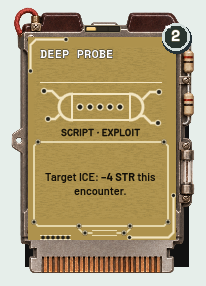
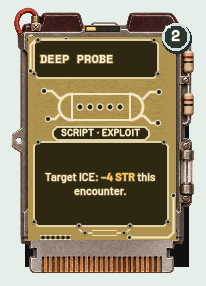
CARDS-002: glow study on dark solder-mask panels (review branch only)
Designer feedback: dark text on bare mustard lacks contrast. Title, type
stamp and rules now sit on #2E2712 mask panels; ivory #FFF3D0 text with a
soft halo (13.4:1), amber #FFC861 Barlow Bold numbers (9.7:1). Fixture
asserts mask panels, ink contrast and pad-free type plate. Preview 0
failures at 3x and 1x; rules 361/0, ADP 17/0, SIGNAL/CARBON 671/0.

Never merged into main or release.

Claude-Session: https://claude.ai/code/session_019hKEHwHgBfGqbFMUM3xZXY

Changed region(s): [[0.1456, 0.4196, 0.8155, 0.8112], [0.1456, 0.1119, 0.7864, 0.3077]]

diff --git a/docs/visual/fixtures/cards-002/README.md b/docs/visual/fixtures/cards-002/README.md
@@ -4,15 +4,19 @@
 
 **Status:** Design review, 2026-11-19. The fifth design is an alternate Rustler cartridge treatment. The review source is isolated from the playable build.
 
-![Review fixes: three rarities, two cached states and the longest-rules stress card](iterations/PANOPTICON_Mustard_PCB_05_Review_Fixes.jpg)
+![Glow study: text on dark solder-mask panels over the mustard board](iterations/PANOPTICON_Mustard_PCB_05_Glow_Mask.jpg)
 
-## Current review version
+## Current review version — glow study (2026-11-19, PROPOSED)
 
-- The whole board uses mustard laminate `#AE924D`, sampled from the designer's TV Typewriter PCB reference. The white title (with its `#24231C` outline) and BW numeral sit above the dark `#100D07` card text.
-- Routed Gothic prints the type and tags as one centred stamp line (`SCRIPT · EXPLOIT`) at 9 px, falling to 8 px if needed. A 1 px outline in the same ink gives the single-stroke face weight at hand size.
-- Barlow SemiBold prints the rules, with numbers and their units (`−4 STR`, `2`) in Barlow Bold. The rules sit inside a fixed 134 × 84 PCB trace frame, centred horizontally and vertically, at 11 px down to a 9 px floor.
-- Thin PCB traces outline the entire rules box. Plated through-holes and short branches connect it visually to an empty axial resistor footprint.
-- A recessed light in the top exterior of the cartridge shows rarity. It has three cells, filled left to right: one for Common, two for Uncommon, three for Rare. The card face omits the written rarity; the hover tooltip still names it.
+The designer found that dark text on bare mustard lacked contrast and asked whether the text should glow off the board. In this study no text sits directly on the mustard.
+
+- The board stays mustard laminate `#AE924D`, sampled from the designer's TV Typewriter PCB reference, with its circuit stencil, traces and contacts.
+- **Dark solder-mask panels** in `#2E2712` sit behind the title, the type stamp and the rules. The mask is 4.96:1 against the mustard, so each panel reads as a distinct printed area.
+- **Glowing ivory text** `#FFF3D0` (13.4:1 on the mask) has a soft zero-offset halo, `rgba(255, 219, 140, 0.32)`. The halo is decoration only; contrast is measured on the solid ink.
+- **Title:** Chrome Deco bold, centred vertically in a 124 × 38 chamfered mask panel with plated corner holes. The old dark outline and separator line are gone.
+- **Type stamp:** Routed Gothic, one centred line (`SCRIPT · EXPLOIT`) at 9 px, falling to 8 px if needed, on a small pill-shaped mask plate. The plate has no plated holes, so nothing touches the letters.
+- **Rules:** Barlow SemiBold, centred in a fixed 134 × 84 mask panel with traces, plated holes and the empty resistor footprint, at 11 px down to a 9 px floor. Numbers and their units are **Barlow Bold in phosphor amber** `#FFC861` (9.7:1 on the mask).
+- **Rarity:** a recessed light in the top exterior of the cartridge with three cells, filled left to right: one for Common, two for Uncommon, three for Rare. The card face omits the written rarity; the hover tooltip still names it.
 - **Cached** is never printed on the card. A padlock indicator is mounted on the cartridge's left ear, outside the board. A card held until played has a solid rim. A temporary cache breaks the rim into segments, one lit per remaining turn. The hover tooltip reads `CACHED` or `CACHED · TEMP (n turns)`.
 
 | Rarity | Light | Example |
@@ -37,7 +41,7 @@ The captures are at 3× hand size. [`captures/hand-size/`](captures/hand-size/) 
 | Long rules would shrink to about 8 px | Stencil art shortened to 40 px and type plus tags merged to one line, so the frame grows from 67 to 84 px. Floor raised to 9 px; every card's rules at AMP 0–3 (444 texts) fit. |
 | Rarity shown by colour alone (amber and green differ by only 1.08:1 in brightness) | Lit-cell count, 1/2/3, alongside the colour. |
 | Numbers lost their emphasis | Barlow Bold for numbers in the dark ink (the old `#F2CD87` highlight would fail contrast on mustard). |
-| White title is 2.99:1 on mustard alone | Outline kept and now asserted by the fixture. |
+| White title is 2.99:1 on mustard alone | Superseded by the glow study: the title sits on its own dark mask panel. |
 | Thin left-aligned type lines crowding the frame | One centred stamp line with a weighting outline, at least 3 px clear of the frame. |
 
 ## Design sequence
@@ -53,6 +57,7 @@ The captures are at 3× hand size. [`captures/hand-size/`](captures/hand-size/) 
 9. [Board traces, plated holes and resistor footprint](iterations/PANOPTICON_Mustard_PCB_05_Board_Trace_Frame.jpg)
 10. [Top-edge rarity lights](iterations/PANOPTICON_Mustard_PCB_05_Rarity_Lights.jpg)
 11. [Review fixes: cache padlock, segmented lights, taller frame, bold numbers](iterations/PANOPTICON_Mustard_PCB_05_Review_Fixes.jpg)
+12. [Glow study: ivory text on dark solder-mask panels, amber numbers](iterations/PANOPTICON_Mustard_PCB_05_Glow_Mask.jpg)
 
 ## Reproduce the latest preview
 
@@ -79,7 +84,7 @@ The capture fixture needs a display. It checks:
 - each lamp's tier and lit-cell count against the card's actual rarity;
 - the fixed frame, the 9 px floor, centring and fit of the rules, and bold numbers;
 - that the type stamp is one line and clear of the frame;
-- that the title keeps its outline;
+- that the title, type stamp and rules each sit on the dark mask, in glowing ivory, with every ink at least 4.5:1 on the mask and no plated holes on the type plate;
 - that `CACHED` never appears on the card face, and that the padlock appears only on cached cards, stays off the board, shows the right turn count and is named in the tooltip;
 - that every card's rules text at AMP 0–3 fits the frame at 9 px, and every Rustler type stamp fits one line at 8 px.
 

diff --git a/docs/REDLINE_DEVELOPMENT_LOG.md b/docs/REDLINE_DEVELOPMENT_LOG.md
@@ -4,16 +4,6 @@
 
 **LOG-001 (2026-11-16):** entries from 2026-11-08 to 2026-11-14 are in `REDLINE_DEVELOPMENT_LOG_ARCHIVE.md`, unchanged. Keep this file under about 60 KB (HANDOFF, "How we work" 6).
 
-## 2026-11-17 — CARDS-001: selected board colours and Whirlwind Bloatware (Codex)
-
-**Commit tag:** `cards-001-board-palette`.
-
-**Designer choices:** A/C/D board colours selected for card faces; Whirlwind #3 selected as Bloatware prototype. The pale Bloatware plate was rejected (“No card should have a white background for the text”). Brown Bloatware was then rejected for matching SCRIPT; oxide-red D received “Perfect”. That confirms the D material choice; no approval of the entire PR/merge is inferred.
-
-**Changed:** tobacco-brown SCRIPT, earthy olive PROGRAM, muted blue-green PROTOCOL; direct light printing on real board-style textures. BLOATWARE now has the Whirlwind-inspired protective U-handle, paired tubes, open cage/stacked boards and oxide-red phenolic face. Names, costs and rules are live controls. TRACER/SPAM remain BLOATWARE with unchanged unplayability/clear/TRACE rules; both now use the same component-aware bounds as other cartridges. Cached Bloatware retains full rules and CACHED marker; optional corporate flavour footer yields space when cached. No white card text panels remain. A–D review labels denote the four types; source-reference letters A/C/D remain palette provenance.
-
-**Validation:** Godot 4.3 import, 357 rules checks and 170 Friendly Lie UI checks pass. Extended cartridge fixture passes 625 checks and covers all authored/compiled texts, both Bloatware examples including cached text, component bounds and a mixed-type hand. Selected older log entry appended unchanged to the archive under LOG-001. Asset sources/guide/status/HANDOFF and PNGs are updated. No card definitions, rarity weights, costs or gameplay values changed. PR #12 remains open for integrated review before merge.
-
 ## 2026-11-17 — CARDS-001: instrument amber accents (Codex)
 
 **Commit tag:** `cards-001-amber`. Replaced neon yellow-green with warm instrument amber (`#D6B675`) for the shared highlight and printed numeric highlights. The brass/gauge reference fits the selected brown, olive, teal and oxide-red boards. BW badges, selection accents and shared HUD controls inherit the same colour. No rules or costs changed.
@@ -421,3 +411,15 @@ Saved ten review sheets, three final Godot captures and the reproducible prototy
 **Interpretations to confirm:** padlock glyph and left-ear position; broken-rim turn segments for temporary cache; 1/2/3 lamp cells; bold numbers in place of the amber highlight; 84 px frame with a 40 px stencil; single-line type stamp with a 1 px weighting outline; Barlow Bold added under the same OFL.
 
 LOG-001 moved the oldest dated entry to the archive unchanged: 2026-11-17 — CARDS-001: integrated light faces and printed titles (Codex).
+
+## 2026-11-19 — CARDS-002 glow study on dark solder-mask panels (Claude)
+
+**Designer feedback:** "The text doesn't glow off the PCB boards… there's just not enough contrast between the text itself and the PCB boards." The designer asked for the next study on the review branch only.
+
+**Changed (preview patch, `review/cards-002` only):** added dark mask panels in `#2E2712` behind the title (124×38), the type stamp (a pill-shaped plate with no plated holes) and the rules (134×84). Text prints in ivory `#FFF3D0` with a soft halo; numbers print in Barlow Bold amber `#FFC861`. Removed the title's dark outline and the separator line. The fixture now asserts mask panels, glowing ivory ink, at least 4.5:1 for every ink on the mask, and no plated holes on the type plate.
+
+**Validation:** Godot 4.3 at baseline `0aa6091` with the patch: preview fixture 0 failures at 3× and 1×, with 444 rules texts fitting at 9 px or larger; rules 361/0, ADP 17/0, SIGNAL/CARBON 671/0.
+
+**Interpretations to confirm:** mask colour and panel shapes; halo strength (alpha 0.32, radius 3–4); amber for numbers; the type stamp on its own plate rather than inside the rules panel.
+
+LOG-001 moved the oldest dated entry to the archive unchanged: 2026-11-17 — CARDS-001: selected board colours and Whirlwind Bloatware (Codex).

diff --git a/docs/HANDOFF.md b/docs/HANDOFF.md
@@ -123,7 +123,7 @@ Per-step results and interpretations: [HALCYON_PLAYTEST3_IMPLEMENTATION.md](HALC
 | ID | Question | Where it came from | Status |
 |---|---|---|---|
 | NAME-002 (PROPOSED) | **Rename VITAE to SPARK?** Designer: VITAE "seems so out of place in this setting"; SPARK "works", to be reviewed later "to see how much it fits before committing it". Why SPARK: the stat is not health but how much of *you* the machine can't have. Every consciousness has a First Signal; the spark is that signal in you, and what the ’Pelago harvests for the synchronization (SIGNAL-001, ARCH-001). Hits dim it; at 0 your spark is taken. Period-true (radio spark gap). Samples: *SPARK 12 / 30*, *PULP 5 · SPARK −5*, NUL/REM "keep your spark low and your head lower." Considered and set aside: NERVE, TICKER, GRIT, PULSE (too close to PULP); runners-up STATIC, SPINE, INK. Optional extra: corporations name the same number in flavour copy only (HALCYON "Comfort Level", IRONWATCH "Wellness Index", LUCIDA "Restfulness"). Scope if approved: about 510 mentions in 21 docs, including LOCKED master entries (Vitae distinction, HUB-002 PATCH UP), and about 80 in code/data; Claude Code renames on screen with a guard test that VITAE never appears; no rule changes. | Designer, 2026-11-18 | WAITING (review later) |
-| CARDS-002 mustard cartridge | Review the alternate mustard cartridge with the 2026-11-19 review fixes: cached as an exterior padlock (designer direction), segmented 1/2/3 rarity lights, 84 px rules frame with a 9 px floor, bold numbers, one-line type stamp. **Interpretations to confirm:** padlock glyph and ear position, broken-rim turn count, lamp cells, bold numbers. | [Gallery, captures and preview source](visual/fixtures/cards-002/README.md) · [log](REDLINE_DEVELOPMENT_LOG.md#2026-11-19--cards-002-mustard-pcb-review-fixes-claude) | **WAITING** for a production rollout decision; fixes PROPOSED |
+| CARDS-002 mustard cartridge | Review-only on `review/cards-002`. Latest: glow study, with ivory text and amber numbers on dark solder-mask panels over the mustard board, and the 2026-11-19 review fixes (exterior cache padlock, 1/2/3 rarity cells, 84 px rules frame with a 9 px floor). **Interpretations to confirm:** mask colour and panel shapes, halo strength, amber numbers, padlock and lamp cells. | [Review archive](visual/fixtures/cards-002/README.md) | **WAITING** for designer review; PROPOSED |
 | ARCH-NAMES-001 names | The nine island names are working copy: the designer will check them against real care homes later. | ARCH §4.0 | WAITING |
 
 ---

diff --git a/docs/REDLINE_DEVELOPMENT_LOG_ARCHIVE.md b/docs/REDLINE_DEVELOPMENT_LOG_ARCHIVE.md
@@ -1899,3 +1899,13 @@ GENERALIST also has two stalls, counted separately from deaths. Mean end decks G
 **Validation:** 357 rules checks and 612 cartridge UI checks pass, including authored/compiled text fit and protruding bounds. Five Chrome stages pass; refreshed nine close-ups, six/eight-card captures and ten encounter review PNGs. The earlier dated whole entry was appended unchanged to the archive under LOG-001 to keep this live log below about 60 KB.
 
 **Review:** material tint and direct-print title treatment are proposed visual refinements. PR #12 is updated, not merged; designer approval of the integrated revision is still required under the existing merge instruction. No gameplay data, rarity odds or costs changed.
+
+## 2026-11-17 — CARDS-001: selected board colours and Whirlwind Bloatware (Codex)
+
+**Commit tag:** `cards-001-board-palette`.
+
+**Designer choices:** A/C/D board colours selected for card faces; Whirlwind #3 selected as Bloatware prototype. The pale Bloatware plate was rejected (“No card should have a white background for the text”). Brown Bloatware was then rejected for matching SCRIPT; oxide-red D received “Perfect”. That confirms the D material choice; no approval of the entire PR/merge is inferred.
+
+**Changed:** tobacco-brown SCRIPT, earthy olive PROGRAM, muted blue-green PROTOCOL; direct light printing on real board-style textures. BLOATWARE now has the Whirlwind-inspired protective U-handle, paired tubes, open cage/stacked boards and oxide-red phenolic face. Names, costs and rules are live controls. TRACER/SPAM remain BLOATWARE with unchanged unplayability/clear/TRACE rules; both now use the same component-aware bounds as other cartridges. Cached Bloatware retains full rules and CACHED marker; optional corporate flavour footer yields space when cached. No white card text panels remain. A–D review labels denote the four types; source-reference letters A/C/D remain palette provenance.
+
+**Validation:** Godot 4.3 import, 357 rules checks and 170 Friendly Lie UI checks pass. Extended cartridge fixture passes 625 checks and covers all authored/compiled texts, both Bloatware examples including cached text, component bounds and a mixed-type hand. Selected older log entry appended unchanged to the archive under LOG-001. Asset sources/guide/status/HANDOFF and PNGs are updated. No card definitions, rarity weights, costs or gameplay values changed. PR #12 remains open for integrated review before merge.

diff --git a/docs/REDLINE_MASTER_DESIGN.md b/docs/REDLINE_MASTER_DESIGN.md
@@ -98,6 +98,8 @@ Shared silkscreen `#F2E5C2` and contact holes `#24231C` stay outside names, illu
 
 **CARDS-002 review fixes — Mustard PCB cartridge (2026-11-19).** *Designer direction:* the cached state is never printed on the card face; it is an icon on the outside of the cartridge. *PROPOSED (interpretations to confirm):* a padlock indicator on the left ear, with a solid rim for a held card and one lit rim segment per remaining turn for a temporary cache; the wording moves to the hover tooltip. Rarity lights fill 1, 2 or 3 cells, so rarity is not shown by colour alone. The rules frame grows to 134 × 84 with a 9 px floor, and type and tags merge into one centred stamp line. Numbers print in Barlow Bold in the rules ink. The [review archive](visual/fixtures/cards-002/README.md) holds the patch, fixture and captures.
 
+**CARDS-002 glow study — Mustard PCB cartridge (2026-11-19, review branch only, PROPOSED).** *Designer feedback:* dark text on bare mustard lacks contrast; the text may need to glow off the board. *Study:* the title, type stamp and rules sit on dark solder-mask panels in `#2E2712` (4.96:1 against the mustard). Text prints in ivory `#FFF3D0` (13.4:1) with a soft zero-offset halo, and numbers print in Barlow Bold amber `#FFC861` (9.7:1). The bare board keeps only traces and stencil art.
+
 **VISUAL-APPROVALS-002 — Prototype art and working values approved (APPROVED, 2026-11-17).** The designer approved every item below, which had been waiting for review. Designer: "Okay, all those changes that you listed are all approved." Numbers stay tunable presentation values; approval means build from them, not that they can never change. Sources: the 2026-11-17 VIS-001, CHROME-001 and CARDS-001 entries in `REDLINE_DEVELOPMENT_LOG.md`.
 
 - **CHROME-001 (HALCYON encounter), commits 15ae99e–4c2135e:** the generated calm and hostile atrium art and the CAPTCHA/AUTO-RENEW appliance shells; six shared collage illustrations assigned by card role (no per-card art yet); a 20% reveal of the hostile atrium during Cracking; pearl-enamel ICE plaques (pearl `#EDF4F0`, slate `#20343B`, teal `#165B55`) that stay clean in Mask off; the layered silver rim, small Deco fan and placeholder HALCYON wordmark on mascots; mascot carriers at 82% with two ICE and 70% with three; a 2.5-second break confirmation in a header at the top of the screen.
